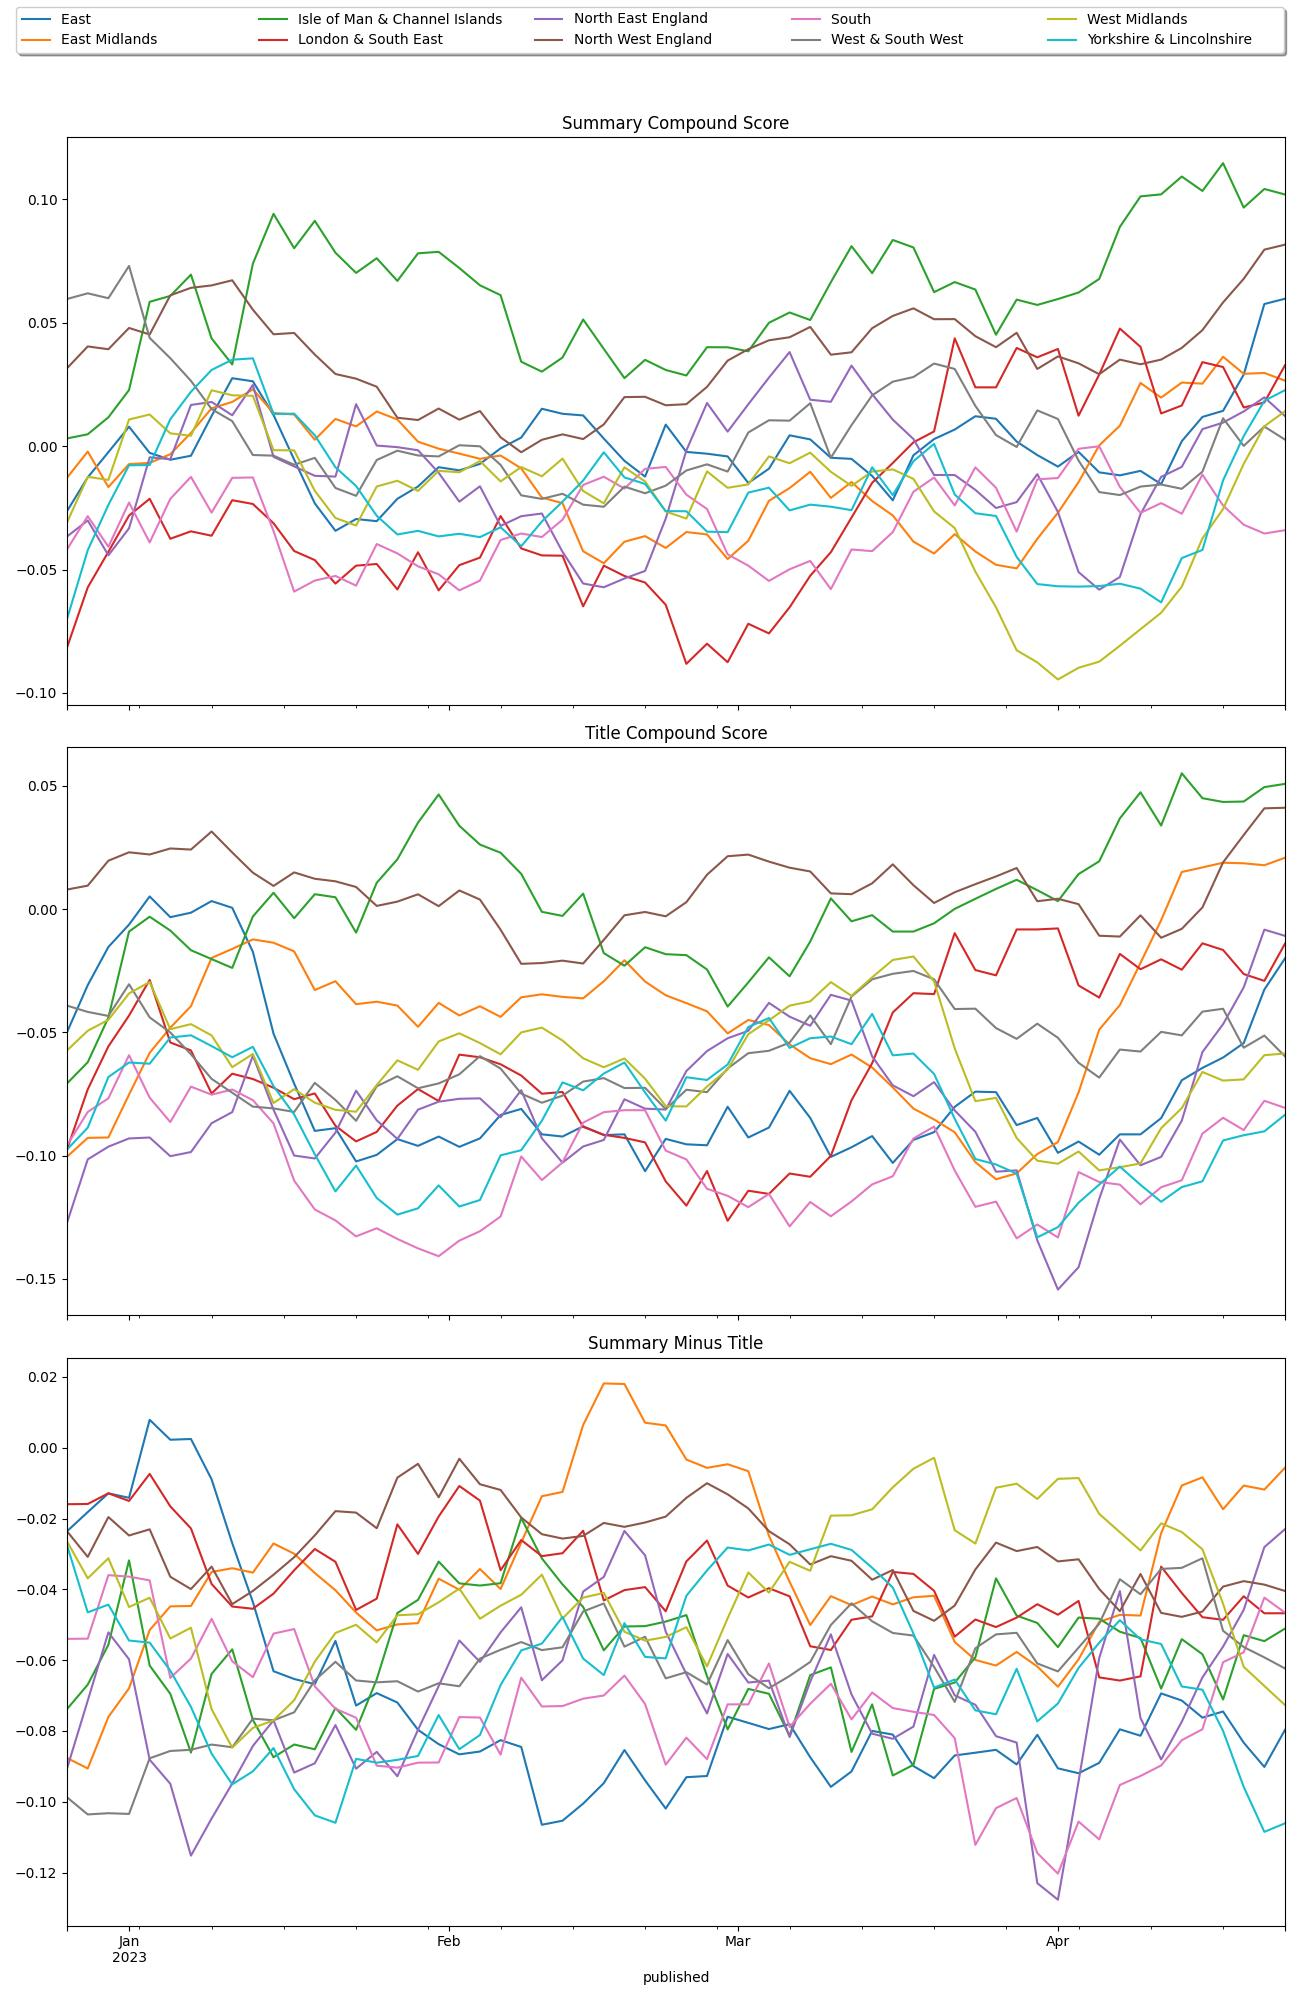
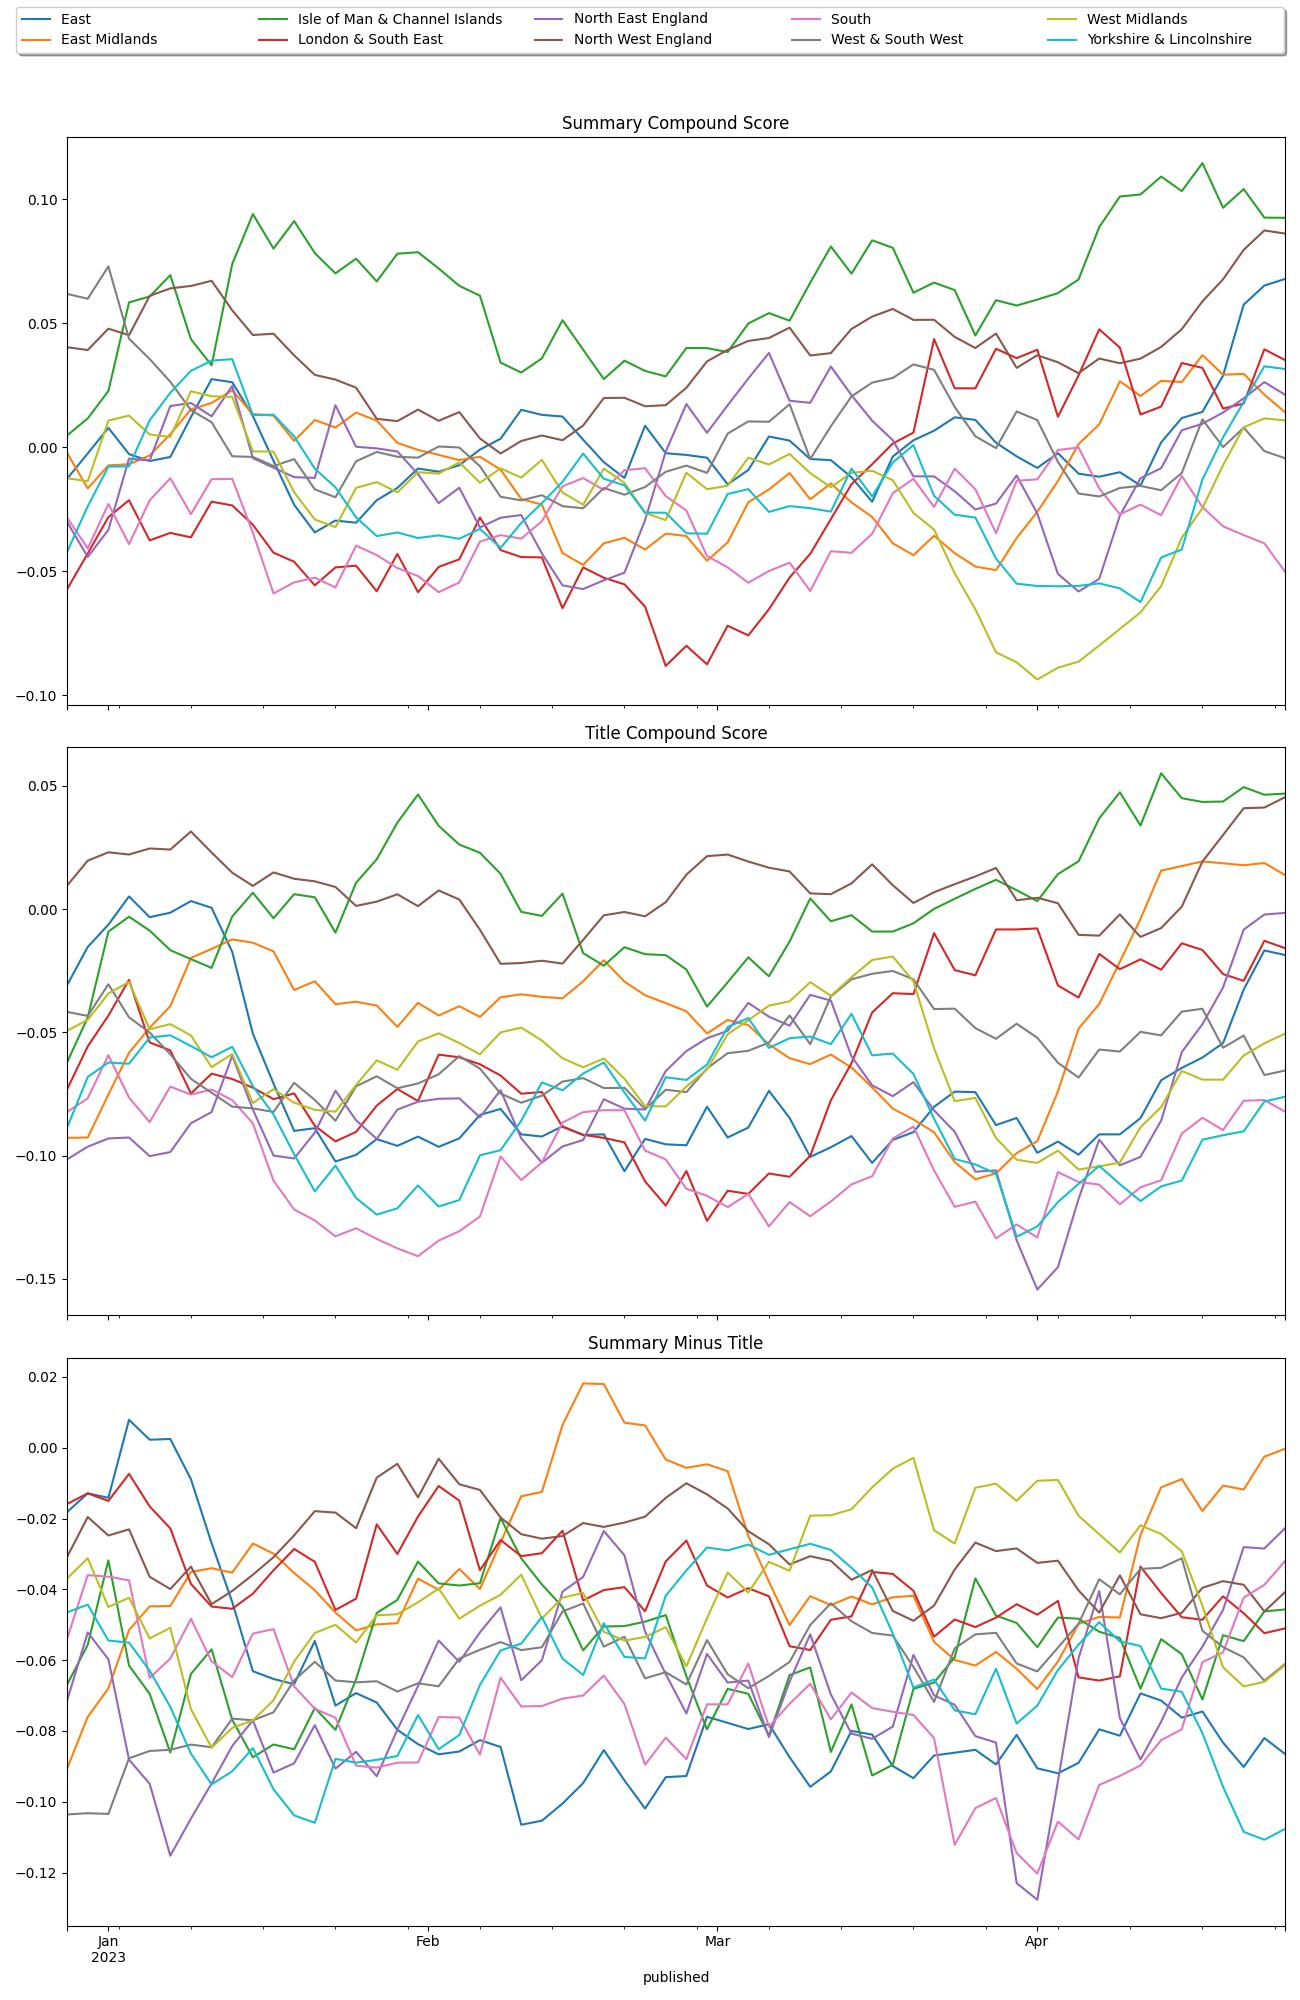
at 2023-04-25 10:43 ran: [Stage: 'complete-basic_report']

diff --git a/reports/complete/latest.md b/reports/complete/latest.md
@@ -1,12 +1,12 @@
-| region                        | published                        | summary                                                                                            | title                                                 | url                                  |   summary_compound_score |   title_compound_score |   summary_minus_title |
-|:------------------------------|:---------------------------------|:---------------------------------------------------------------------------------------------------|:------------------------------------------------------|:-------------------------------------|-------------------------:|-----------------------:|----------------------:|
-| East                          | 2023-04-24 08:17:52+00:00        | The new sections will form part of the southern side of Lowestoft's Gull Wing bridge.              | More parts for £145m bridge project arrive in town    | /news/uk-england-suffolk-65371870    |                   0      |                 0      |                0      |
-| East Midlands                 | 2023-04-24 08:50:13.852000+00:00 |                                                                                                    | Your thoughts on Saturday's game                      | /sport/articles/c84dgjpe34ko         |                   0      |                 0      |                0      |
-| Isle of Man & Channel Islands | 2023-04-24 09:13:05+00:00        | Barley and peas were seized and destroyed as a precaution after 132 cows died in December 2022.    | Farm suppliers compensated £56,000 by States          | /news/world-europe-jersey-65373041   |                  -0.7783 |                 0      |                0.7783 |
-| London & South East           | 2023-04-24 08:06:08.650000+00:00 |                                                                                                    | 'Brighton have been one of the best teams all season' | /sport/articles/c976ljj4y09o         |                   0      |                 0.6369 |                0.6369 |
-| North East England            | 2023-04-24 08:49:41+00:00        | Photographers and sky watchers are treated to a purple display in the night sky.                   | Northern lights display sends the skies purple        | /news/uk-england-65371512            |                   0      |                 0      |                0      |
-| North West England            | 2023-04-24 09:19:29+00:00        | Kami Gaston, 20, attacked the dog walker when she heard his victim's cries for help, police say.   | Man raped woman and attacked passing dog walker       | /news/uk-england-manchester-65372879 |                  -0.4588 |                -0.8225 |               -0.3637 |
-| South                         | 2023-04-24 08:49:41+00:00        | Photographers and sky watchers are treated to a purple display in the night sky.                   | Northern lights display sends the skies purple        | /news/uk-england-65371512            |                   0      |                 0      |                0      |
-| West & South West             | 2023-04-24 09:22:46+00:00        | Alin-Vasile Lercosan, 27, from Bridgwater, attacked the woman as she walked home, the court hears. | Man followed lone stranger and raped her              | /news/uk-england-somerset-65367111   |                  -0.4588 |                -0.7717 |               -0.3129 |
-| West Midlands                 | 2023-04-24 08:50:13.852000+00:00 |                                                                                                    | Your thoughts on Saturday's game                      | /sport/articles/c84dgjpe34ko         |                   0      |                 0      |                0      |
-| Yorkshire & Lincolnshire      | 2023-04-24 08:17:50.062000+00:00 |                                                                                                    | 'The bounce Leeds were hoping for hasn't come about'  | /sport/articles/crgm5k0kj8yo         |                   0      |                 0.4215 |                0.4215 |
+| region                        | published                        | summary                                                                                                   | title                                                                | url                                             |   summary_compound_score |   title_compound_score |   summary_minus_title |
+|:------------------------------|:---------------------------------|:----------------------------------------------------------------------------------------------------------|:---------------------------------------------------------------------|:------------------------------------------------|-------------------------:|-----------------------:|----------------------:|
+| East                          | 2023-04-25 09:14:54+00:00        | Friends Laura Pottinger and Sarah Waller died after their canoes capsized on the River Great Ouse.        | Families pay tribute to canoeists who died in river                  | /news/uk-england-beds-bucks-herts-65367138      |                   0.5574 |                -0.6124 |               -1.1698 |
+| East Midlands                 | 2023-04-25 09:21:49+00:00        | Suggested budget cuts of up to 20% for NI departments are alarming, say public sector leaders.            | Stormont crisis putting essential services at risk                   | /news/uk-northern-ireland-65383535              |                  -0.4019 |                -0.7351 |               -0.3332 |
+| Isle of Man & Channel Islands | 2023-04-25 05:53:22+00:00        | The service at the Cenotaph in St Helier mirrors ones held at sunrise around the world.                   | Dawn ceremony held in Jersey for Anzac Day                           | /news/world-europe-jersey-65378813              |                   0      |                 0      |                0      |
+| London & South East           | 2023-04-25 07:10:49.378000+00:00 |                                                                                                           | Transfer news: Mac Allister to leave Seagulls                       | /sport/articles/ce7g9x2y692o                    |                   0      |                -0.0516 |               -0.0516 |
+| North East England            | 2023-04-25 07:37:31+00:00        | Gabriel, 12, is autistic and developed a compulsion to wash clothes more than 10 years ago.               | The boy with a passion for washing machines                          | /news/uk-england-tees-65379747                  |                   0      |                 0.4588 |                0.4588 |
+| North West England            | 2023-04-25 08:54:26.959000+00:00 |                                                                                                           | 'Man City seem to be hitting their straps at exactly the right time' | /sport/articles/cq53wvd3g70o                    |                   0      |                 0      |                0      |
+| South                         | 2023-04-25 07:22:54+00:00        | The major landslip in the Cains Folly area east of Charmouth blocked the beach on Monday afternoon.       | Walkers cut off by tide after major landslip                         | /news/uk-england-dorset-65383565                |                  -0.2732 |                -0.2732 |                0      |
+| West & South West             | 2023-04-25 09:17:50+00:00        | Bath and Ireland lock Quinn Roux signs a new undisclosed-length contract to stay at the Premiership club. | Bath lock Roux signs new contract                                    | /sport/rugby-union/65385061                     |                   0      |                 0      |                0      |
+| West Midlands                 | 2023-04-25 08:04:47+00:00        | Tributes pour in for three teenagers who died following a crash in Warwickshire on Friday.                | Thousands raised after teenagers killed in crash                     | /news/uk-england-coventry-warwickshire-65383822 |                  -0.743  |                -0.802  |               -0.059  |
+| Yorkshire & Lincolnshire      | 2023-04-25 08:37:51+00:00        | The planned work at Garden Mills is being funded by a £5.8m government grant.                             | Former mill to be converted into education centre                    | /news/uk-england-leeds-65384243                 |                   0.3612 |                 0      |               -0.3612 |
